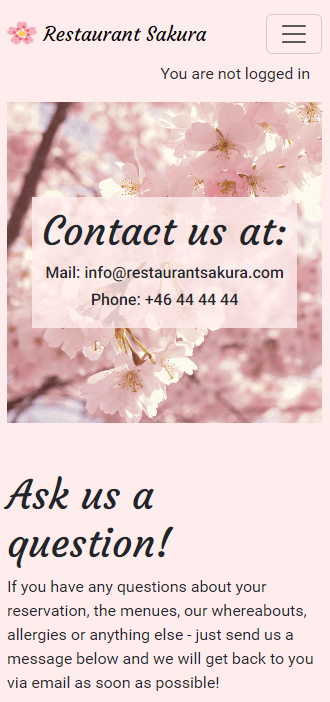
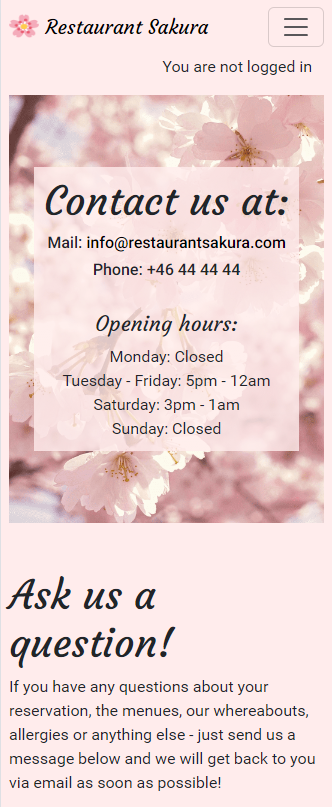
update content in existing features section in readme.md

diff --git a/templates/base.html b/templates/base.html
@@ -218,7 +218,7 @@
                     Restaurant Sakura
                 </a>
                 <div class="d-flex mb-2 mb-sm-0">
-                    <h6 class="mb-0">Götaplatsen 4412 56 Göteborg</h6>
+                    <h6 class="mb-0">Götaplatsen 4, 412 56 Göteborg</h6>
                 </div>
                 <div class="d-flex mb-2 mb-sm-0">
                     <h6 class="mb-0">2024 &copy; Sofia Wallsquid</h6>

diff --git a/README.md b/README.md
@@ -57,6 +57,8 @@ When it was time to start building the project and write all the code I had abou
 
 I ended up with a total of 24 User Stories to work with in the end, the majority o them made it into the "Done" coloumn on my Project Board, while some simply didn't make it into the project at this point due to the short amount of time at my disposal. Those stories will on the other hand be great to use if I want to continue work on the project and create a really good portfolio piece for the future. 
 
+![printscreen user story]()
+
 I do belienve some of the stories could have been split up into even smaller parts and tasks, but if I were t do that the process would be even longer - so hopefully they are enough to give a general feel for the project and its purpose for the users. There are also a lot of Stories regarding the Admin that could have been drawn out, but since my project doesn't focus on operation and andministration of an actual restaurants webpage but at this point mainly focus on the User and their interaction with the back-end and front-end of the website - I leave those stories for the future.  
 
 Below are the epics and the Stories I ended up with. If they made it all the way or need more work I will discuss further down in the [User Story testing](#user-story-testing) section. 
@@ -146,12 +148,15 @@ Here you can view the same Contact page, but designed for a web browser instead.
 
 There were 13 wireframes made in total, which can all be found [here](/static/images/wireframes/).
 
+
 ### Colour scheme
 
 Since Sakura means Cherry Blossom, I let cherry blossoms set the colour scheme for the page. The soft pink is in focus, accompanied by a mid tone grey on buttons and other details. I think the use of not to many colours allows the images and text to take the center stage, which is exactly my goal and what I imagine a restaurant like this would want. 
 
 
+
 ### Project planning
+
 
 ### Agile methodologies
 
@@ -177,6 +182,7 @@ Important to note in this project is that some features which I believe are esse
 ![printscreen MoSCoW label prioritization]()
 
 
+
 ### Database Design
 
 Looking in the rearview mirror I set out to design a project that was a little to big to handle for little ol me - every page on the site got its on app in the root directory, because I had an idea that every page would have features that demanded its own models, views and so on ... Turns out that pages on the site like menues, location and contact could have consisted of just plain html-files placed in the projects root templates folder accompanied by some custom css. On the other hand the project is prepped for a majority of functions and cool add-ons on every page in the future since they are all structured as apps. Below is the root directory of my project, with "sakura" being the projects name, and the "booking"-app unfolded to show the content of one of the apps that fulfilles its purpose as an app at the moment. 
@@ -184,7 +190,7 @@ Looking in the rearview mirror I set out to design a project that was a little t
 ![printscreen root directory](/static/images/printscreen/root_directory.png)
 
 
-- Entity Relationship Diagrams(ERD)
+__Entity Relationship Diagrams(ERD)__
 
 Two custom models were made for the project, one to handle the "Book a table" form in the booking-app, and one to handle the "Contact"-form in the contact-app. Below is the original ERD's that were drawn out before the models were made. The User model is handled by the Django Framework. The ERD shows that the User model has a one-to-many relationship with my custom BookATable model - a User can make many bookings and many fields in the User model can be associated with the BookATable model, while only one field in the BookATable model is associated with one exact line in the User model.
 
@@ -207,89 +213,99 @@ Spencer also supported me in creating a BookingManager that checks to se if the 
 print(todays_bookings)"
 
 
-## Features
 
+## Features
 
 ### Existing features
 
 
 ### Header
 
-The main page is primarily made up of a header image/jumbotron with the restaurants name, a short tagline below to give the site visitor a quick understanding of what the place is all about, and two buttons leading the site visitor to either Book a table, or give them the possibility to view the menues - two features which to me are the primary functions on a restaurant web page. 
-
-Info section
+The main page/landing page is primarily made up of a header image/jumbotron with the restaurants name, a short tagline below to give the site visitor a quick understanding of what the place is all about, and two buttons leading the site visitor to either Book a table, or give them the possibility to view the menues - two features which to me are the primary functions on a restaurants webpage. Below the header image is some short text to give some more context to the page, along with the restaurants Opening hours - which I think a lot of visitors search for when visiting a wepage such as this. 
 
 ![printscreen header and info section](/static/images/printscreen/header_info_section.png)
+
+The mobile version containts pretty much the same features but presented in a responsive way, fitting into different screen sizes. I think some adjustmet of font sizes on smaller devices should have been made, but that wasn't a priority at the moment. 
+
 ![printscreen header mobile version](/static/images/printscreen/mobile_header.png)
 
 
 ### Navigation menu
 
-The navigation menu consist of links to various other pages - such as a Contact page, a Location page, a page to view the menues and a highlighted button redirecting the visitor to the page where they can book a table. It also consist of links to the restaurants social media pages, which at the moment all lead to the various landing pages of the social media platforms. At the far right of the navigation menu are two links leading to a page for Registration or Login - so that the visitor can have the option to Login and view, edit or delete their reservation - all in line with the __CRUD__ functionality. 
+The navigation menu consist of links to various other pages - such as a Contact page, a Location page, a page to view the menues and a highlighted button redirecting the visitor to the page where they can book a table. It also consist of links to the restaurants social media pages, which at the moment all lead to the various landing pages of the social media platforms. At the far right of the navigation menu are two links leading to a page for Registration or Sign In - so that the visitor have the option to register an acoount and then Sign in to be able to view, edit or delete their reservation - all in line with the __CRUD__ functionality. 
 
 ![printscreen web page navigation menu](/static/images/printscreen/nav-bar.png)
 
-With the help of Bootstrap and some custom CSS styling the navigation menu becomes a drop down feature on smaller devices. On smaller screen the social media icons aren't visible to the visitor in the navigation menu - so that it doesn't take up to much space. Instead they are only visible in the footer area on smaller screens. 
+With the help of Bootstrap and some custom CSS styling the navigation menu becomes a drop down feature on smaller devices. On smaller screens the social media icons aren't visible to the visitor in the navigation menu - so that the menu doesn't take up to much space. Instead they are only visible in the footer area on smaller screens. 
 
 ![printscreen drop down navigation menu](/static/images/printscreen/nav_bar_dropdown.png)
 
 
 ### Landing page & Footer
 
+When scrolling on the main page the next section consists of some hopefully tempting images and another Book a table-button to once again remind the user that they really need to do so! Here they can also find some contact information to the restaurant, alon with a link to the restaurants Contact form. 
+
 ![printscreen second view landing page](/static/images/printscreen/landing_page_second_view.png)
+
+The last view on the main page consists of another appealing image and a button that leads the site user to the menu page. Here you can also view the webpage footer with the restaurants address, copyright info and links to social media.  
 
 ![printscreen third view landing page and footer](/static/images/printscreen/landing_page_third_view_footer.png)
 
-![printscreen mobile second view landing page](/static/images/printscreen/mobile_second_view.png) ![printscreen mobile third view landing page](/static/images/printscreen/mobile_third_view.png)
+On mobile devices one of the images dissappear, along with the repeating Book a table-buttons as to not stack to much stuff on top of each other. Below this content is just a responsive version of the footer.
+
+![printscreen mobile second view landing page](/static/images/printscreen/mobile_second_view.png)
 
 
 ### Location page
 
+The location page is pretty straight forward - information about where the restaurant is located and a interactive embedded map that the site user can zoom in and out on, maximize and get directions from.
+
 ![printscreen restaurants location page](/static/images/printscreen/location_page.png)
+
+The mobile version of the location page is just a responsive version with the same content. 
 
 ![printscreen mobile restaurants location page](/static/images/printscreen/mobile_location_page.png)
 
+
 ### Contact page
 
-On the Contact page the user can find all the information they can possibly need if the wan't to get in touch with the restaurant. Phone number, email adress and the restaurants adress is all there, in case somebody want's to send them a letter. 
+On the Contact page the user can find all the information they can possibly need if the wan't to get in touch with the restaurant. Phone number, email adress and the restaurants adress is all there, in case somebody want's to send them a letter. There you also find the information about the restaurants opening hours, in the same style as on the main page. 
 
-![printscreen contact information]()
+![printscreen contact information](/static/images/printscreen/contact_page.png)
 
-![printscreen contact information]()
+Below the contact info is a handy form that the user can choose to fill out if they do not want to call or email the restaurant. The contact form is connencted to the Django admin panel for the administrator to view incoming questions and inquiries from site user and reply to them. 
 
-![printscreen contact information]()
+![printscreen contact form](/static/images/printscreen/contact_form.png)
 
-To make things even easier for the user there is a contact form on this page that the user can fill out to get in contact with the restaurant. 
+Mobile versions of the contact page - same contact but responsive layout. 
 
-![printscreen contact form]()
+![printscreen contact information](/static/images/printscreen/mobile_contact_page.png) ![printscreen contact form](/static/images/printscreen/mobile_contact_form.png)
 
-In line with a user friedly interface the user gets an immediate respons valiadationg that their message has been sent succesfully, or if there is any errors with the way they filled out the form. 
+In line with a user friedly interface the site user gets an immediate respons valiadating that their message has been sent succesfully, or if there is any errors with the way they filled out the form. 
 
 ![printscreen user respons from contact form]()
 
 
-
 ### Book a table page
 
-On the page called "Book a table" the user has the option to fill out a form to make a reservation request at the restaurant, without having to contact them via email or phone. All with the goal of making it as simple for the user as possible to make the decision to visit the restaurant. 
+On the page called "Book a table" the user has the option to fill out a form to make a reservation at the restaurant, without having to contact the restaurant via email or phone. All with the goal of making it as simple for the site user as possible to make the excellent decision to visit the restaurant. 
 
-![printscreen book a tabel form]()
+The form contains a Timeslot function for the site users to choose from when making a reservation and validation functions that prevent users from picking a date back in time. There is also the option to add a message to the restaurant - all in line with the user story about being able to make special requests when making a reservation at the restaurant.
 
-![printscreen user respons from form]()
+![printscreen book a tabel form](/static/images/printscreen/booking_page.png)
 
-There is a Timeslot function for visitors to choose from, validator functions and functions to prevent visitors from choosing dates back in time
+The site user will get a direct respons on the webpage confirming a successful booking, or different validation error messages if something is filled in incorrectly.They will also recieve an email confirmation containing the booking information. 
+
+![printscreen user respons from booking form]()
 
 
-### Register account/login page
-
-
-![printscreen]()
-
-### Footer
+### Register account/sign in and view reservations page
 
 
 
 ![printscreen]()
+
+
 
 ### Potential future features
 
@@ -299,6 +315,7 @@ a lot of functionality that needs to be added
 
 but see the value in the functions that are actually there
 
+closed dates
 
 ## Technologies used
 
@@ -308,12 +325,15 @@ but see the value in the functions that are actually there
 - JavaScript
 - Python
 
+
 ### Database
 - CI Database URL - used to store all data
 Postgres
 
+
 ### Frameworks
 Django - main framework for a secure and resuable development process
+
 
 ### Libraries & Additional Programs/Software/Tools
 - Bootstrap - used for some of the front-end design. Mainly to make the page responsive and make use of Bootstraps grid system. It was accompanied by some custom CSS since I'm not all that familiar with Bootstraps many fuctions and add ons just yet. 
